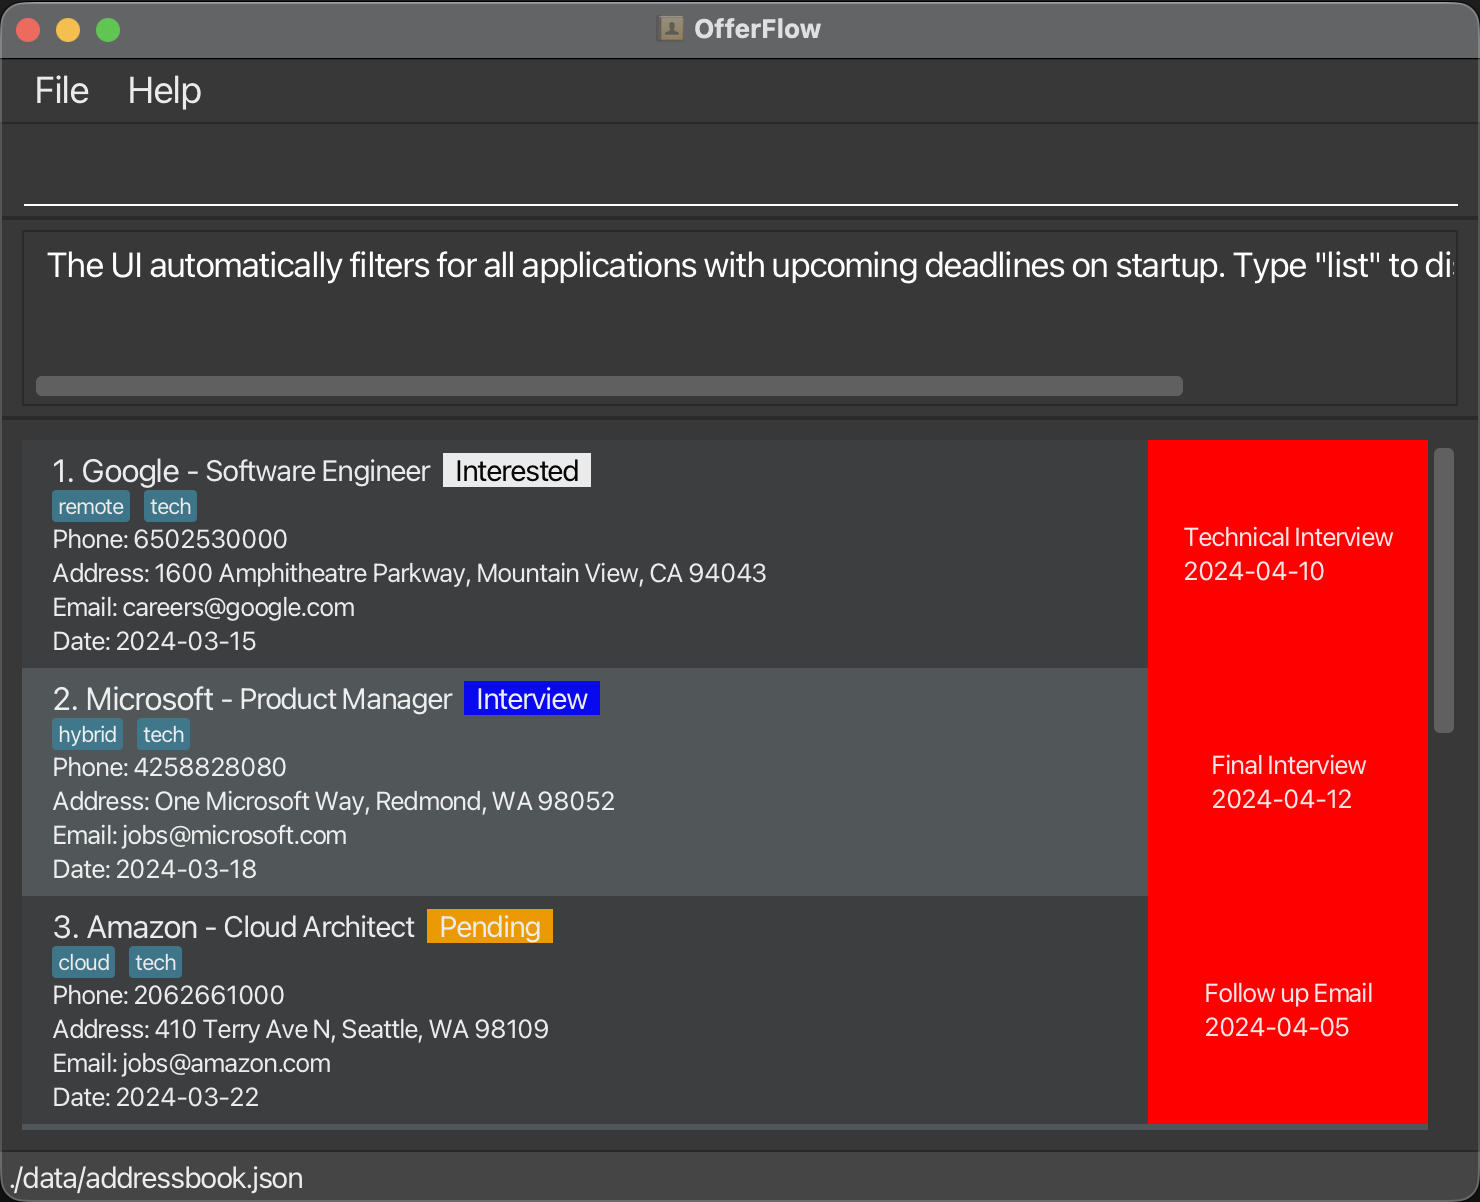
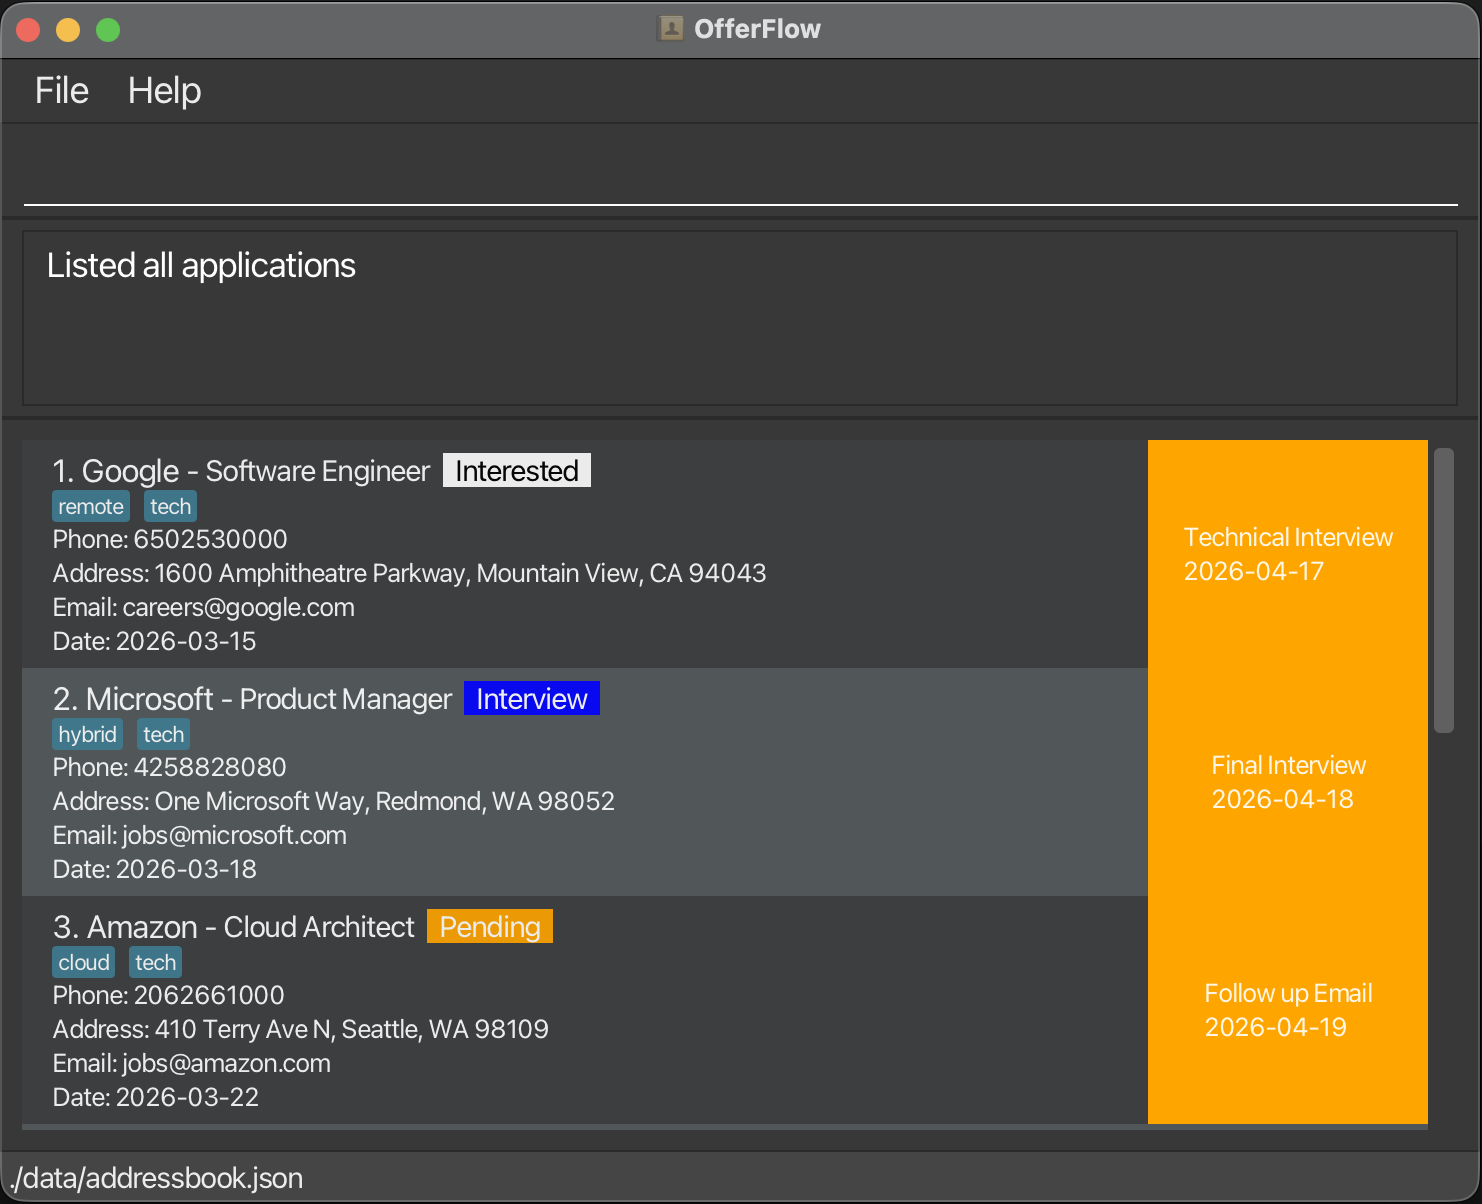
Update UG

diff --git a/docs/UserGuide.md b/docs/UserGuide.md
@@ -28,23 +28,26 @@ If you can type fast, OfferFlow will manage your internship pipeline faster than
 1. Ensure you have Java `17` or above installed in your Computer.<br>
    **Mac users:** Ensure you have the precise JDK version prescribed [here](https://se-education.org/guides/tutorials/javaInstallationMac.html).
 
-1. Download the latest `.jar` file from [here](https://github.com/AY2526S2-CS2103T-F10-4/tp/releases).
+2. Download the latest `.jar` file from [here](https://github.com/AY2526S2-CS2103T-F10-4/tp/releases).
 
-1. Copy the file to the folder you want to use as the _home folder_ for your OfferFlow.
+3. Copy the file to the folder you want to use as the _home folder_ for your OfferFlow.
 
-1. Open a command terminal, `cd` into the folder you put the jar file in, and use the `java -jar OfferFlow.jar` command to run the application.<br>
-   A GUI similar to the below should appear in a few seconds. Note how the app contains some sample data.<br>
+4. Open a command terminal, `cd` into the folder you put the jar file in, and use the `java -jar OfferFlow.jar` command to run the application.<br>
+   The GUI always shows all applications with upcoming reminders due within the next 7 days at start-up. When you type `list` you will note that the app contains some sample data as shown below.<br>
 
    ![Ui](images/Ui.png)
+
 5. Type the command in the command box and press Enter to execute it. e.g. typing **`help`** and pressing Enter will open the help window.<br>
    Some example commands you can try:
-
    * `list` : Lists all internship applications.
    * `add n/Google p/96789012 e/google@gmail.com a/70 Pasir Panjang Rd, #03-71 d/2024-06-18 r/Backend Developer s/interview t/java` : Adds your internship application to Offerflow.
    * `delete 3` : Deletes the 3rd contact shown in the current list.
    * `clear` : Deletes all applications.
    * `exit` : Exits the app.
-6. Refer to the [Features](#features) below for details of each command.
+
+6. Type the `clear` command to clear all the sample data and start adding your own applications that you wish to track!
+
+7. Refer to the [Features](#features) below for details of each command.
 
 ---
 
@@ -66,6 +69,7 @@ If you can type fast, OfferFlow will manage your internship pipeline faster than
   e.g. if the command specifies `help 123`, it will be interpreted as `help`.
 * If you are using a PDF version of this document, be careful when copying and pasting commands that span multiple lines as space characters surrounding line-breaks may be omitted when copied over to the application.
   </box>
+
 
 ### Viewing help : `help`
 
@@ -109,7 +113,6 @@ Format: `add n/NAME r/ROLE ...`
 
 </box>
 
-Notes:
 ⚠ Note:
 * name and role is case insensitive
 * Emails should be of the format `local-part@domain`
